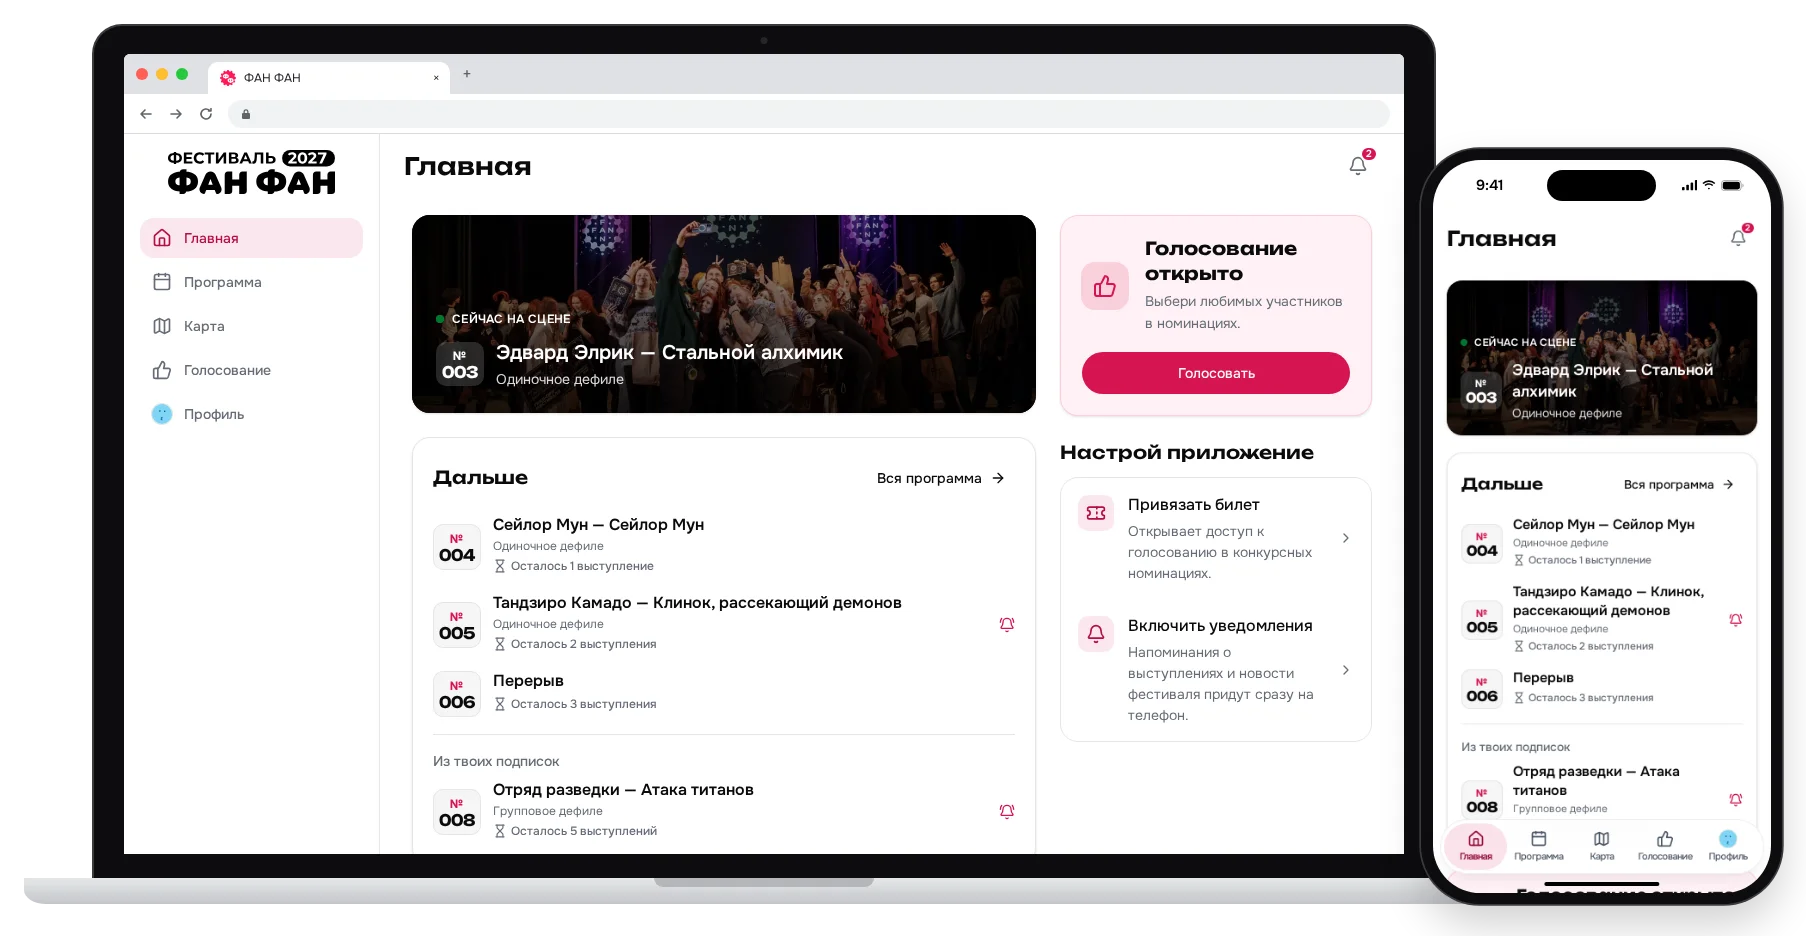
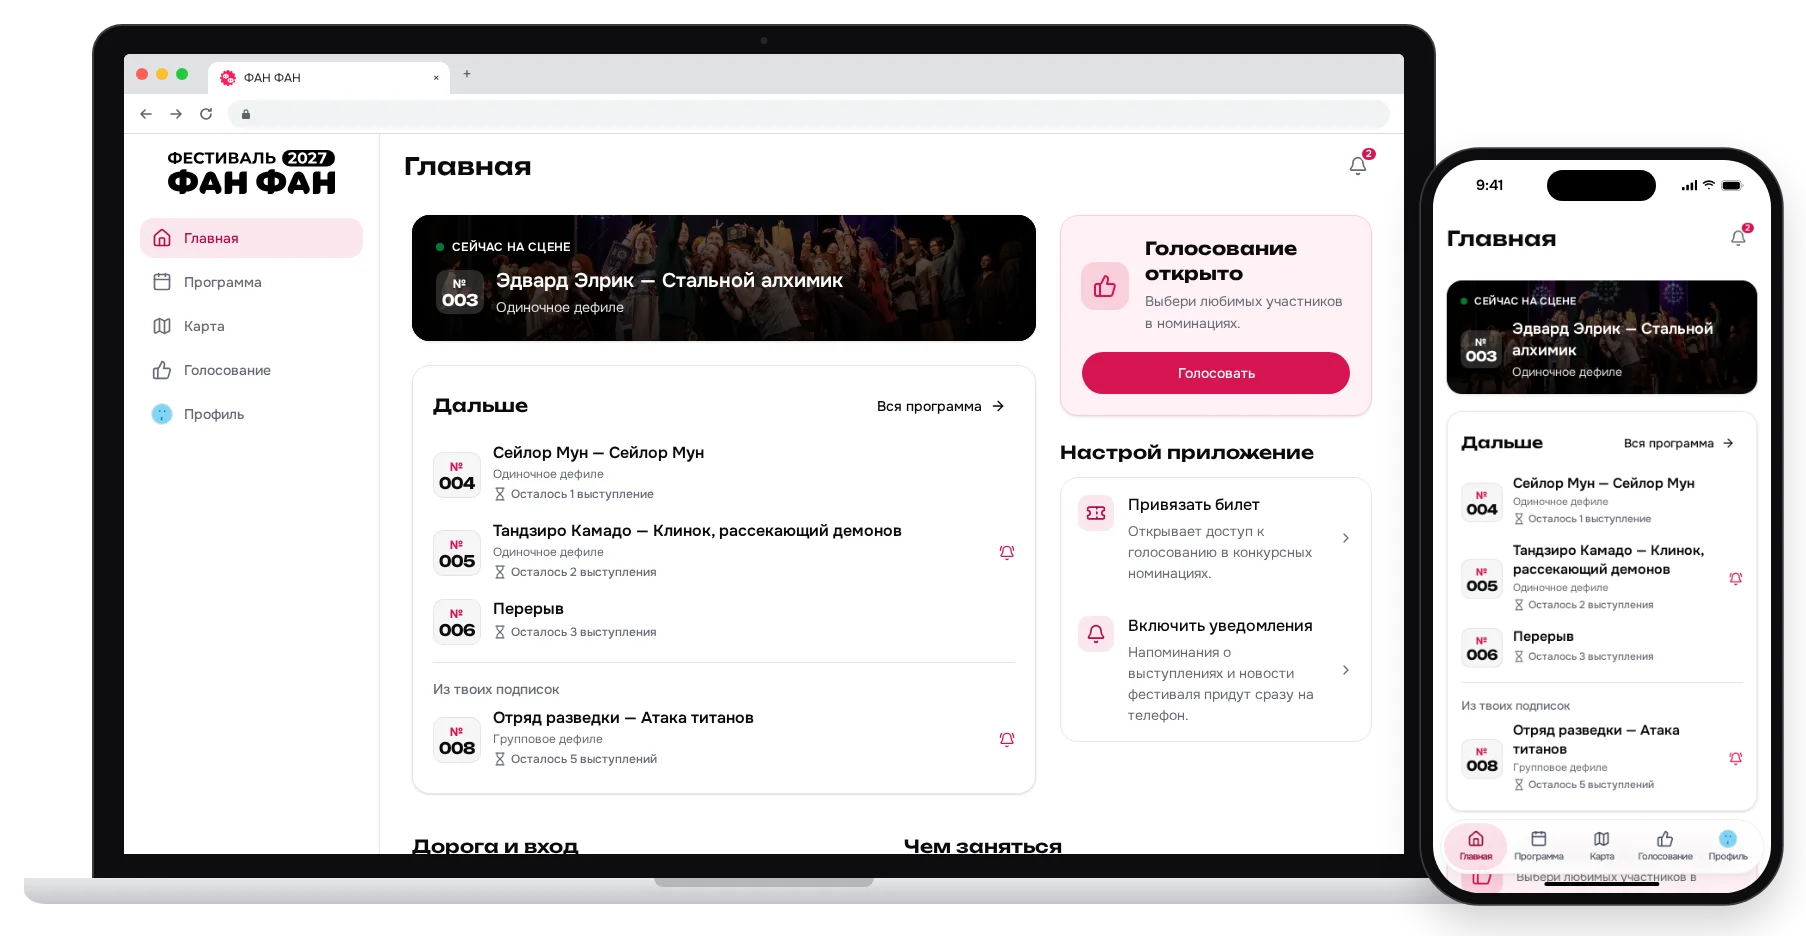
feat(frontend): size the home hero to its content and name the guide's groups
- The hero drops its empty band above the text: the art is a backdrop, and on a
  phone the band took a fifth of the first screen. The scrim's light end rises
  to 60% so white text clears AA wherever it now sits on the photo.
- Before the festival the hero lists the venue with the date and times, so
  when and where read together, as on a ticket.
- «Важное» becomes «Дорога и вход» (the address and the rules): a label that
  says what is inside. The map row goes; its tab is in view on every screen.
- No redirects from /guide or /guide/map: the app isn't live, so nothing links
  there. nestedRoots now takes plain pathname prefixes, since Home's `guide`
  holds only the articles and is no page of its own.

Claude-Session: https://claude.ai/code/session_01VYLuo6QFSiXh3mD7nRUzvC

diff --git a/frontend/src/routes/(app)/components/home/HeroCard.svelte b/frontend/src/routes/(app)/components/home/HeroCard.svelte
@@ -28,9 +28,11 @@
 	// Program start, on the venue clock. Configurable via GET /config and passed in
 	// by the page so the hero renders for guests and on a cold/offline load.
 	let startMs = $derived(new Date(festivalStart).getTime());
-	// The doors time isn't in the config, so it is copy.
+	// When and where, as on a ticket. The doors time and the venue aren't in the
+	// config, so they are copy; the address and route sit in Home's «Дорога и вход».
 	let facts = $derived([
 		formatFestivalDate(festivalStart),
+		m.guide_venue_name(),
 		m.guide_doors(),
 		m.guide_start({ time: formatFestivalTime(festivalStart) })
 	]);
@@ -98,8 +100,8 @@
 			 swapping the art busts every cache with no stale copy. LCP element:
 			 eager + fetchpriority="high", never lazy.
 			 `sizes` states the *cover* width, not the box width: `object-cover` scales
-			 the 16/9 art to fill the box, and on a phone the after-festival panel
-			 makes the box taller than 16/9, which upscales the art past 100vw. From
+			 the 16/9 art to fill the box, and on a phone a tall panel (the
+			 farewell) can make the box taller than 16/9, which upscales the art past 100vw. From
 			 lg the card is capped by the page column (max-w-5xl). -->
 		<enhanced:img
 			src="./main.webp"
@@ -113,15 +115,20 @@
 		/>
 	{/if}
 	<!-- Scrim: the photo is busy and bright in places, so white text needs a dark
-		 layer under it to hold contrast wherever the crop lands. The phase label
-		 sits near the scrim's light top end, so it stays solid white: at
-		 `white/85` it measured 4.1:1 over the brightest pixel of the phone crop. -->
+		 layer under it to hold contrast wherever the crop lands. The card is sized
+		 to its content, so text reaches the top edge too, and the scrim's light end
+		 stays at 60%: even a pure-white pixel under it leaves solid white text at
+		 5.7:1 (WCAG AA 4.5:1). The phase label stays solid white rather than
+		 `white/85`, which measured 4.1:1 over the brightest pixel of the phone crop. -->
 	<div
 		aria-hidden="true"
-		class="absolute inset-0 -z-10 bg-linear-to-t from-black/85 via-black/60 to-black/35"
+		class="absolute inset-0 -z-10 bg-linear-to-t from-black/85 to-black/60"
 	></div>
 
-	<div class="flex flex-col gap-3 p-4 pt-16 sm:p-6 sm:pt-24">
+	<!-- Content-sized: the art is a backdrop, not a message, so it gets no empty band
+		 of its own above the text; on a phone that band pushed the next card down by
+		 a fifth of the first screen. -->
+	<div class="flex flex-col gap-3 p-4 sm:p-6">
 		{#if phase === 'before'}
 			<h2 id="hero-heading" class="text-xs font-semibold tracking-wide text-white uppercase">
 				{m.home_before_festival()}

diff --git a/frontend/src/routes/(app)/components/home/GuideSections.svelte b/frontend/src/routes/(app)/components/home/GuideSections.svelte
@@ -3,7 +3,6 @@
 
 	import Globe from '@lucide/svelte/icons/globe';
 	import Mail from '@lucide/svelte/icons/mail';
-	import MapIcon from '@lucide/svelte/icons/map';
 	import MapPin from '@lucide/svelte/icons/map-pin';
 	import MessageCircle from '@lucide/svelte/icons/message-circle';
 	import ScrollText from '@lucide/svelte/icons/scroll-text';
@@ -68,7 +67,10 @@
 	];
 </script>
 
-<!-- The festival guide, under Home's live part: grouped rows that each lead
+<!-- The festival guide, under Home's live part. The map isn't listed: its tab is
+     in view on every screen. Group names say what is inside, never a bare
+     «Важное», which could hold anything (NN/g, information scent:
+     https://www.nngroup.com/articles/information-scent/). Grouped rows that each lead
      somewhere, the phone-settings shape for "drill in"
      (https://developer.apple.com/design/human-interface-guidelines/lists-and-tables).
      Read as a magazine: each head sits over three times nearer its list than the
@@ -77,15 +79,11 @@
      From lg the activities take a column of their own beside the two short groups,
      the same groups side by side rather than a second design. -->
 <div class="flex flex-col gap-10 lg:grid lg:grid-cols-2 lg:items-start lg:gap-x-6">
-	<section aria-labelledby="guide-important" class="flex flex-col gap-3">
-		<h2 id="guide-important" class="text-section text-foreground">
-			{m.guide_important_heading()}
+	<section aria-labelledby="guide-visit" class="flex flex-col gap-3">
+		<h2 id="guide-visit" class="text-section text-foreground">
+			{m.guide_visit_heading()}
 		</h2>
 		<MenuGroup>
-			<!-- The map has its own tab too; it leads this group because "where is it?"
-			     is the question people ask most, and a reader scanning Home for it
-			     shouldn't have to know about the tab. -->
-			<MenuRow href="map" label={m.nav_map()} icon={MapIcon} />
 			<MenuRow
 				externalHref={yandexMapsUrl}
 				newTab

diff --git a/frontend/src/lib/utils/nav.ts b/frontend/src/lib/utils/nav.ts
@@ -21,9 +21,12 @@ export function isActivePath(activeUrl: string, href: string): boolean {
  */
 export function isNavItemActive(
 	activeUrl: string,
-	item: { href: Path; nestedRoots?: readonly Path[] }
+	item: { href: Path; nestedRoots?: readonly string[] }
 ): boolean {
-	const roots = [item.href, ...(item.nestedRoots ?? [])];
+	// A nested root is a pathname prefix, not necessarily a page, so it isn't typed
+	// as a `Path` (Home claims `guide`, which holds only the articles). `resolve`
+	// prefixes any argument that isn't a route ID with the base path, page or not.
+	const roots = [item.href, ...(item.nestedRoots ?? [])] as Path[];
 	return roots.some((root) => isActivePath(activeUrl, resolvePath(root)));
 }
 

diff --git a/frontend/e2e/specs/map.spec.ts b/frontend/e2e/specs/map.spec.ts
@@ -47,13 +47,4 @@ test.describe('map', () => {
 		await photoZones.last().click();
 		await expect(plan.locator('[data-selected]')).toHaveCount(0);
 	});
-
-	test('the old guide address still opens the map', async ({ page }) => {
-		// Installed apps keep the manifest they were installed with, whose «Карта»
-		// shortcut points at /guide/map.
-		await page.goto('/guide/map');
-
-		await expect(page).toHaveURL('/map');
-		await expect(page.getByRole('img', { name: 'Карта 1 этажа' })).toBeVisible();
-	});
 });

diff --git a/frontend/src/lib/data/nav.ts b/frontend/src/lib/data/nav.ts
@@ -22,8 +22,10 @@ export interface PrimaryNavItem {
 	 * Other route roots reached from this tab's page, which keep the tab lit so the
 	 * bar still says where you are. Home is the hub for the guide's articles, and Profile
 	 * the hub for feedback and the organizer toolbox; none of them has a tab of its own.
+	 * Pathname prefixes rather than `Path`s, since one needn't be a page itself:
+	 * `guide` holds only the articles.
 	 */
-	nestedRoots?: Path[];
+	nestedRoots?: string[];
 }
 
 /**

diff --git a/frontend/e2e/specs/guide.spec.ts b/frontend/e2e/specs/guide.spec.ts
@@ -18,13 +18,6 @@ test.describe('guide on Home', () => {
 		await expect(page).toHaveURL('/');
 	});
 
-	test('the old guide address lands on Home', async ({ page }) => {
-		await page.goto('/guide');
-
-		await expect(page).toHaveURL('/');
-		await expect(page.getByRole('heading', { name: 'Чем заняться' })).toBeVisible();
-	});
-
 	test('the date and start time follow the saved festival settings', async ({ page, api }) => {
 		api.use({
 			'GET /config': json({
